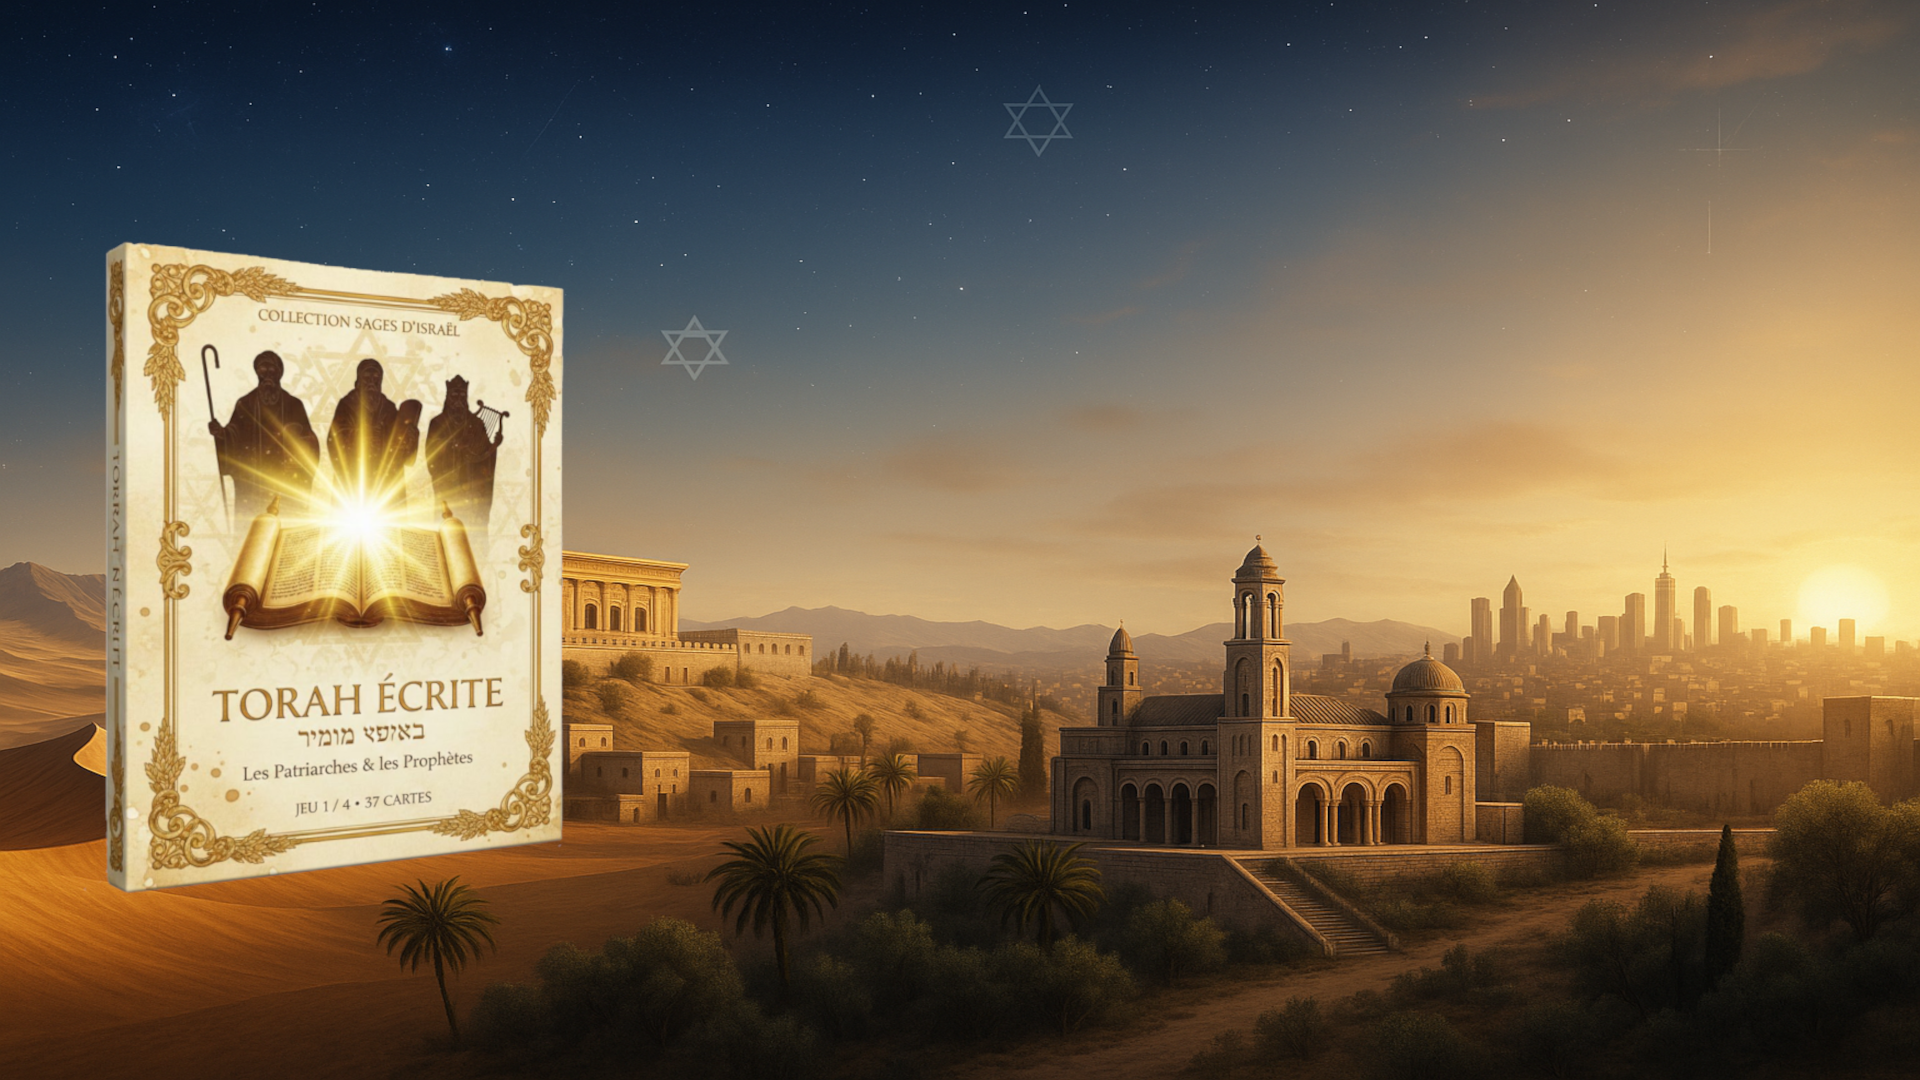
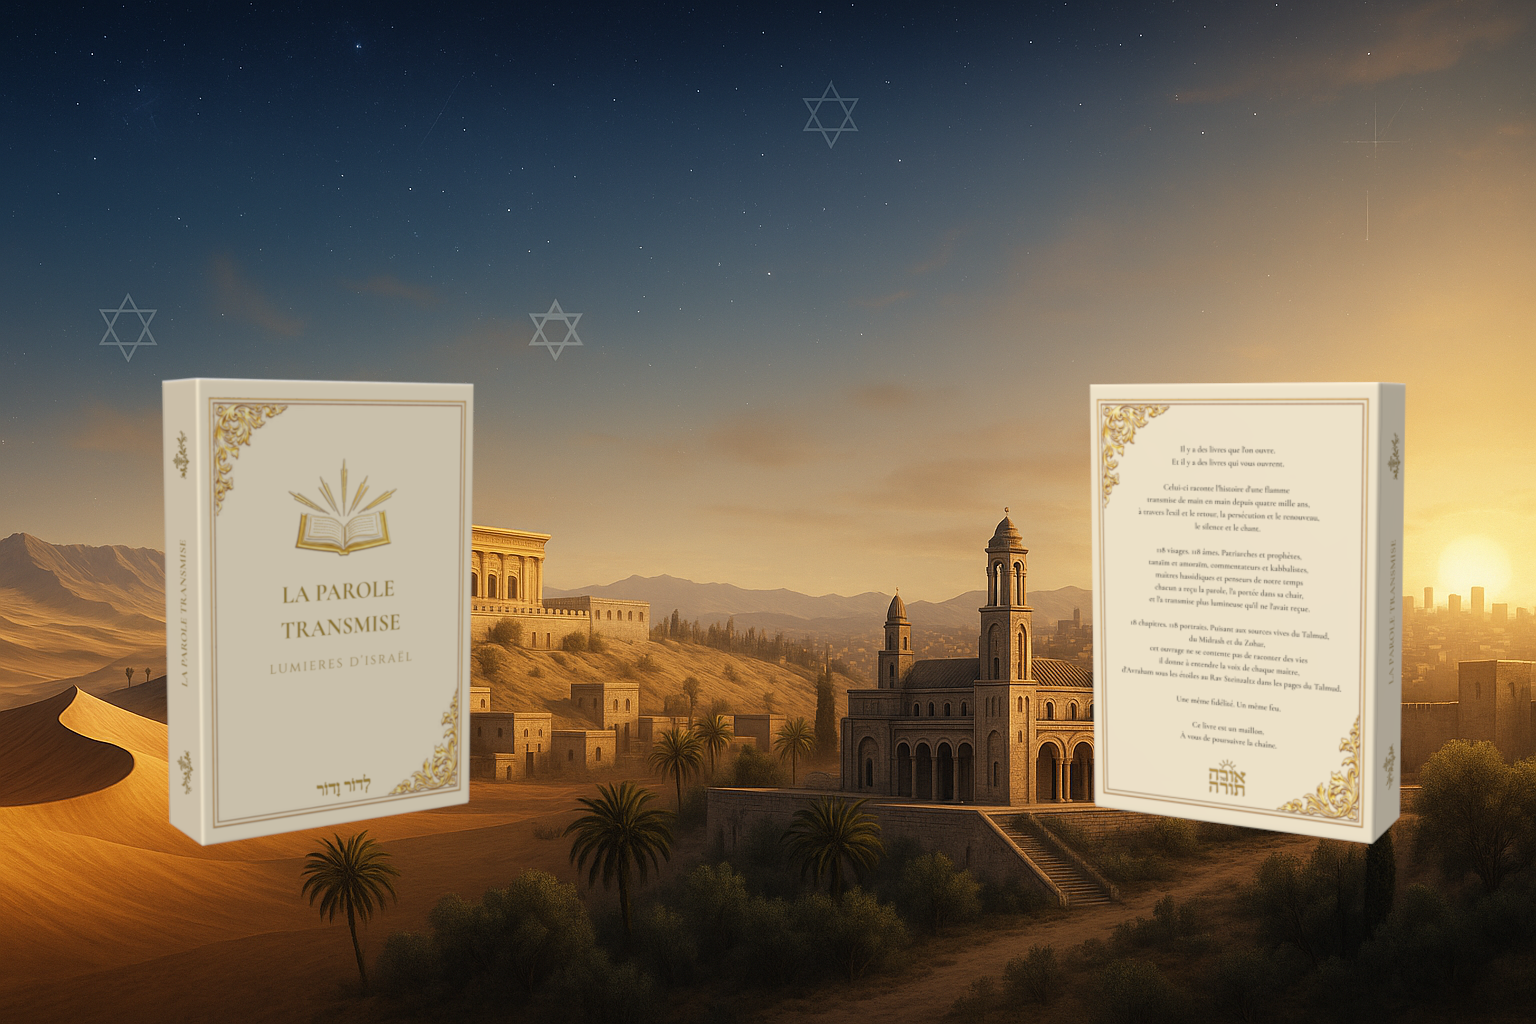
hero bis Lumieres

Changed region(s): [[0.0312, 0.2188, 0.3438, 0.8438], [0.6562, 0.375, 0.9375, 0.8438], [0.3438, 0.5938, 0.375, 0.625]]

diff --git a/index.html b/index.html
@@ -667,28 +667,14 @@
             <img src="images/hero_lumieres_mod.png" alt="La Parole Transmise - Lumières d'Israël - Fond" loading="lazy">
         </div>
         <div class="hero-bis-content">
-            <!-- Colonne gauche : livre -->
-            <div class="book-flip-container">
-                <div class="book-flip-inner">
-                    <div class="book-flip-front">
-                        <img src="images/RECTO_LIVRE_DETOURE.png" alt="La Parole Transmise - Recto" loading="lazy">
-                    </div>
-                    <div class="book-flip-back">
-                        <img src="images/VERSO_LIVRE_DETOURE.png" alt="La Parole Transmise - Verso" loading="lazy">
-                    </div>
-                </div>
-            </div>
-            <!-- Colonne droite : texte + boutons -->
-            <div class="hero-bis-text-col">
-                <h2>La Parole Transmise - Lumières d'Israël <span class="h2-subtitle">— Les grandes figures de l'histoire juive — Un livre premium</span></h2>
-                <p class="hero-bis-subtitle">Un livre premium pour découvrir les patriarches, prophètes et sages qui ont façonné 4000 ans d'histoire</p>
-                <div class="hero-bis-actions">
-                    <button class="btn-modal btn-hero" onclick="openModal('modal-contenu-lumieres')">Découvrir le contenu</button>
-                    <button class="btn-hero btn-modal" onclick="openModal('modal-carte-apercu')">Feuilleter les pages</button>
-                    <button class="btn-modal btn-store" data-action="store">
-                        🛒 Commander
-                    </button>
-                </div>
+            <h2>La Parole Transmise - Lumières d'Israël <span class="h2-subtitle">— Les grandes figures de l'histoire juive — Un livre premium</span></h2>
+            <p class="hero-bis-subtitle">Un livre premium pour découvrir les patriarches, prophètes et sages qui ont façonné 4000 ans d'histoire</p>
+            <div class="hero-bis-actions">
+                <button class="btn-modal btn-hero" onclick="openModal('modal-contenu-lumieres')">Découvrir le contenu</button>
+                <button class="btn-hero btn-modal" onclick="openModal('modal-carte-apercu')">Feuilleter les pages</button>
+                <button class="btn-modal btn-store" data-action="store">
+                    🛒 Commander
+                </button>
             </div>
         </div>
     </section>
@@ -3993,21 +3979,6 @@ Merci !`;
       if (notifyGame && notifyGameNames[notifyGame]) {
         setTimeout(() => openNotifyModal(notifyGame), 500);
       }
-    });
-    </script>
-
-    <!-- Livre flip 3D : tap mobile pour retourner -->
-    <script>
-    document.addEventListener('DOMContentLoaded', function() {
-        var flipContainer = document.querySelector('.book-flip-container');
-        if (flipContainer) {
-            flipContainer.addEventListener('click', function() {
-                var inner = flipContainer.querySelector('.book-flip-inner');
-                if (inner) {
-                    inner.classList.toggle('flipped');
-                }
-            });
-        }
     });
     </script>
 

diff --git a/css/main.css b/css/main.css
@@ -7070,92 +7070,6 @@ footer {
     object-position: center center;
 }
 
-/* Layout 2 colonnes : livre à gauche, texte à droite */
-#lumieres-israel .hero-bis-content {
-    display: flex;
-    align-items: center;
-    justify-content: center;
-    gap: 3rem;
-    width: 90%;
-    max-width: 1200px;
-}
-
-/* Taille du livre (2x plus grand) */
-#lumieres-israel .book-flip-container {
-    max-width: 400px;
-    min-width: 300px;
-    flex-shrink: 0;
-}
-
-/* Colonne texte à droite */
-.hero-bis-text-col {
-    text-align: left;
-    flex: 1;
-}
-
-/* === LIVRE FLIP 3D (recto/verso au survol ou tap) === */
-.book-flip-container {
-    perspective: 1200px;
-    width: 100%;
-    max-width: 500px;
-    margin: 0 auto;
-    cursor: pointer;
-}
-
-.book-flip-inner {
-    position: relative;
-    width: 100%;
-    transition: transform 0.8s ease;
-    transform-style: preserve-3d;
-}
-
-/* Flip au survol desktop */
-.book-flip-container:hover .book-flip-inner {
-    transform: rotateY(180deg);
-}
-
-/* Classe pour flip au tap mobile */
-.book-flip-inner.flipped {
-    transform: rotateY(180deg);
-}
-
-.book-flip-front,
-.book-flip-back {
-    width: 100%;
-    backface-visibility: hidden;
-    -webkit-backface-visibility: hidden;
-}
-
-.book-flip-front img,
-.book-flip-back img {
-    width: 100%;
-    height: auto;
-    display: block;
-}
-
-.book-flip-back {
-    position: absolute;
-    top: 0;
-    left: 0;
-    transform: rotateY(180deg);
-}
-
-/* Indication visuelle subtile */
-.book-flip-container::after {
-    content: "↻ Retournez le livre";
-    display: block;
-    text-align: center;
-    color: rgba(255,255,255,0.5);
-    font-size: 0.75rem;
-    margin-top: 0.5rem;
-    font-style: italic;
-    transition: opacity 0.3s;
-}
-
-.book-flip-container:hover::after {
-    opacity: 0;
-}
-
 /* Hero-bis Lumières d'Israël - Structure identique aux autres hero-bis */
 /* Les règles génériques .hero-bis s'appliquent maintenant */
 

diff --git a/css/responsive.css b/css/responsive.css
@@ -996,30 +996,6 @@ img {
         will-change: auto !important;
     }
     
-    /* Livre flip 3D - mobile : max-width réduit, seul le tap flip */
-    .book-flip-container {
-        max-width: 280px;
-    }
-    .book-flip-container:hover .book-flip-inner {
-        transform: none;
-    }
-    .book-flip-inner.flipped {
-        transform: rotateY(180deg);
-    }
-    
-    /* #lumieres-israel : 2 colonnes → 1 colonne, livre plus petit */
-    #lumieres-israel .hero-bis-content {
-        flex-direction: column;
-        text-align: center;
-    }
-    #lumieres-israel .book-flip-container {
-        max-width: 250px;
-        min-width: auto;
-    }
-    .hero-bis-text-col {
-        text-align: center;
-    }
-    
 }
 
 /* ============================================================
